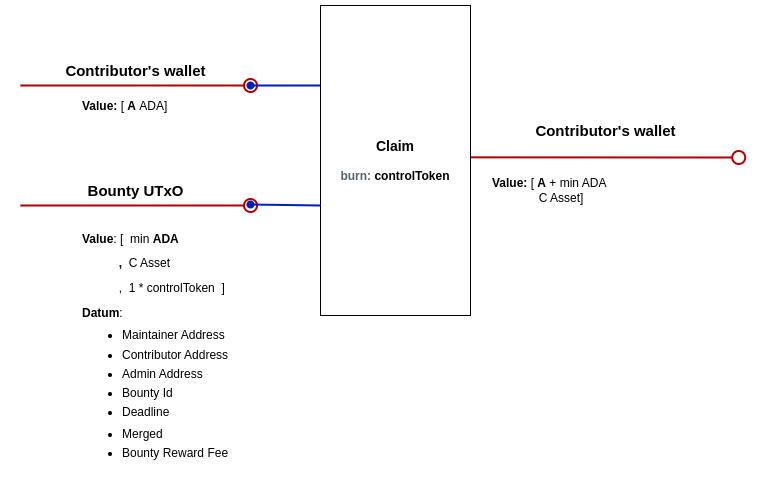
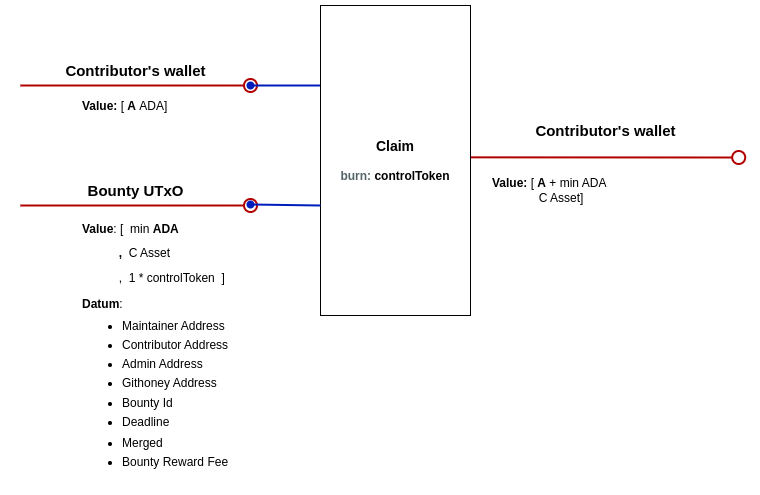
Adding githoney address to datum

diff --git a/offchain/src/operations/addRewards.ts b/offchain/src/operations/addRewards.ts
@@ -1,4 +1,5 @@
 import { buildGithoneyMintingPolicy, buildGithoneyValidator } from "../scripts";
+import { GithoneyDatumT } from "../types";
 import { MIN_ADA, NetConfig } from "../utils";
 import { Assets, Data, Lucid, OutRef, fromText, toUnit } from "lucid-cardano";
 
@@ -10,7 +11,7 @@ async function addRewards(
 ) {
   console.debug("START addRewards");
   const utxo = (await lucid.utxosByOutRef([githoneyUtxo]))[0];
-  const datum = await lucid.datumOf(utxo);
+  const datum: GithoneyDatumT = await lucid.datumOf(utxo);
   const gitHoneyValidator = buildGithoneyValidator();
   const validatorAddress = lucid.utils.validatorToAddress(gitHoneyValidator);
   const mintingScript = buildGithoneyMintingPolicy(outRef);

diff --git a/docs/design.md b/docs/design.md
@@ -17,9 +17,10 @@ There will be a single `BountyUtxo` for each bounty, which will hold the reward 
 > #### Datum
 >
 > - maintainer: **PaymentPubKeyHash**
+> - admin: **PaymentPubKeyHash**
+> - githoney: **PaymentPubKeyHash**
 > - deadline: **POSIXTime**
 > - bounty_id: **String**
-> - admin: **PaymentPubKeyHash**
 > - merged: **Bool**
 > - contributor: **Optional( PaymentPubKeyHash )** (if assigned)
 >
@@ -118,6 +119,7 @@ Pays the contributor the remaining reward assets and burns the `ControlToken`.
 - A single `ControlToken` is minted.
 - The minted token and the min ADAs are paid to the `BountyValidatorAddress`.
 - The datum of the `BountyUtxo` is checked for correctness:
+  - `githoney` Address must be the same as the parameter.
   - Deadline must be in the future.
   - Merged field must be False.
   - Bounty Reward Fee must be equal or grater than 0 and less than 1.
